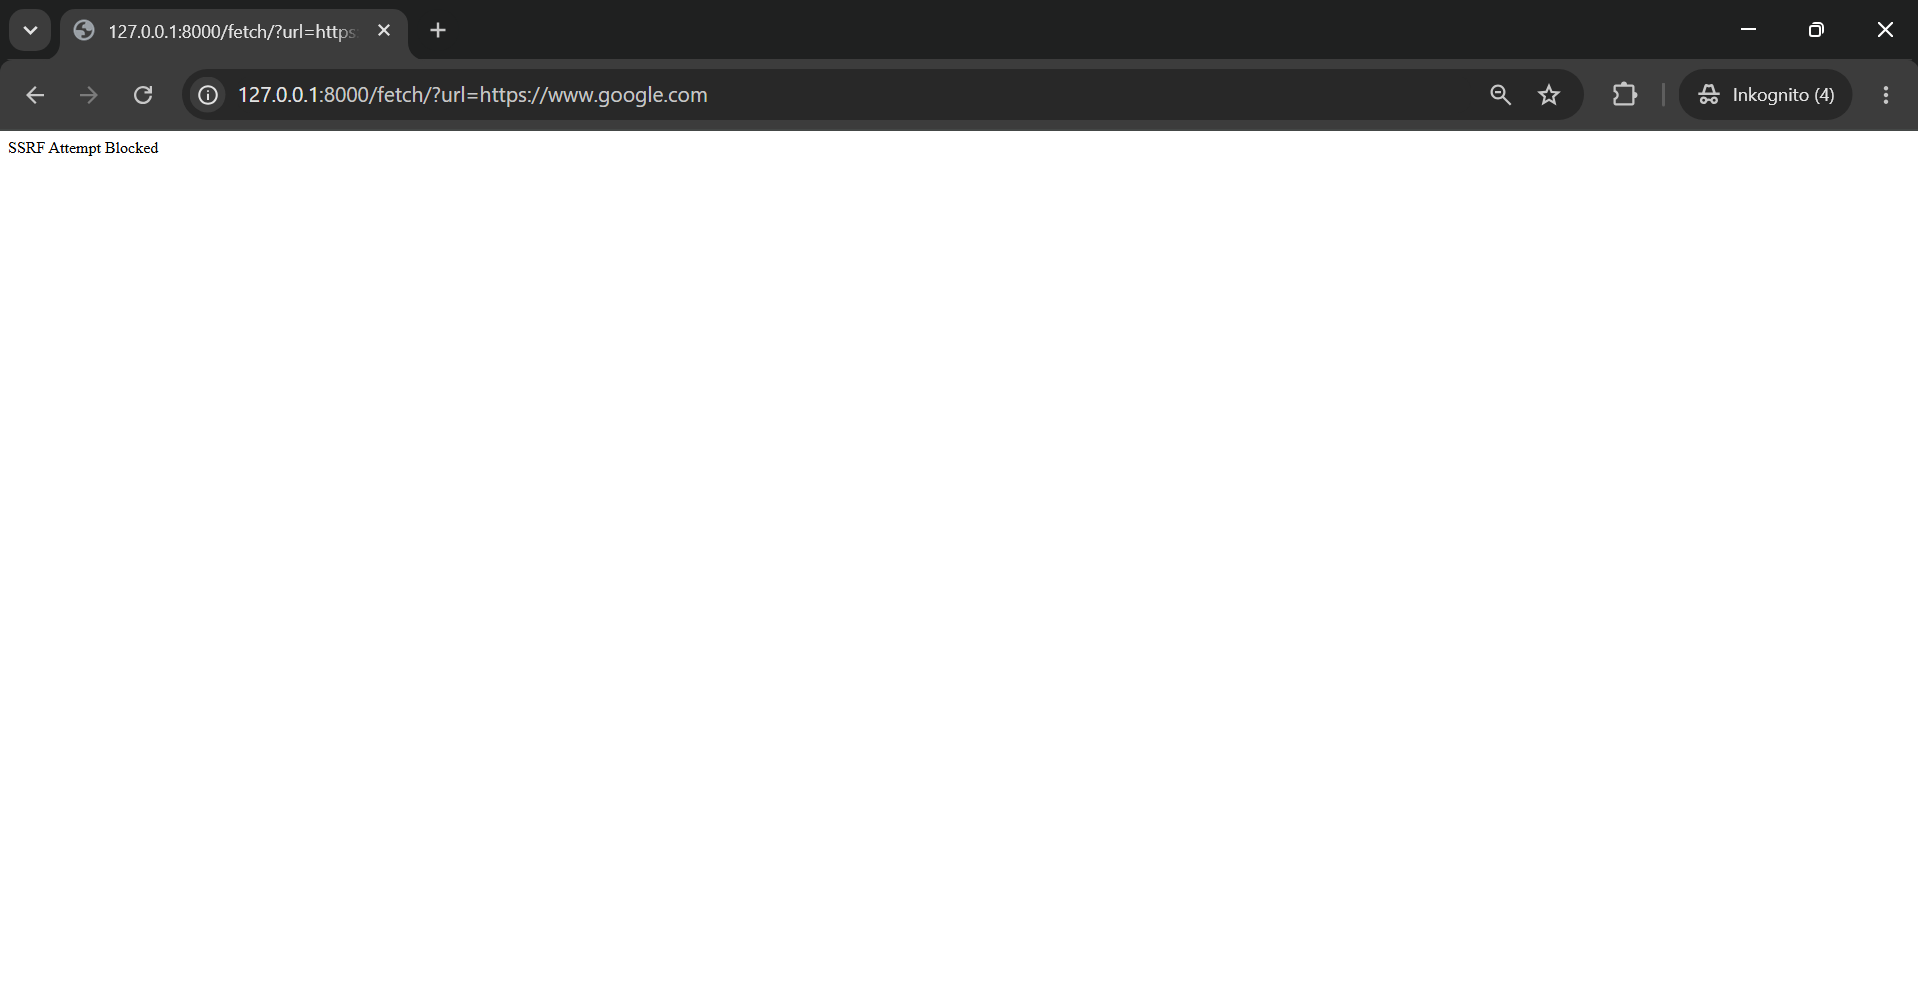
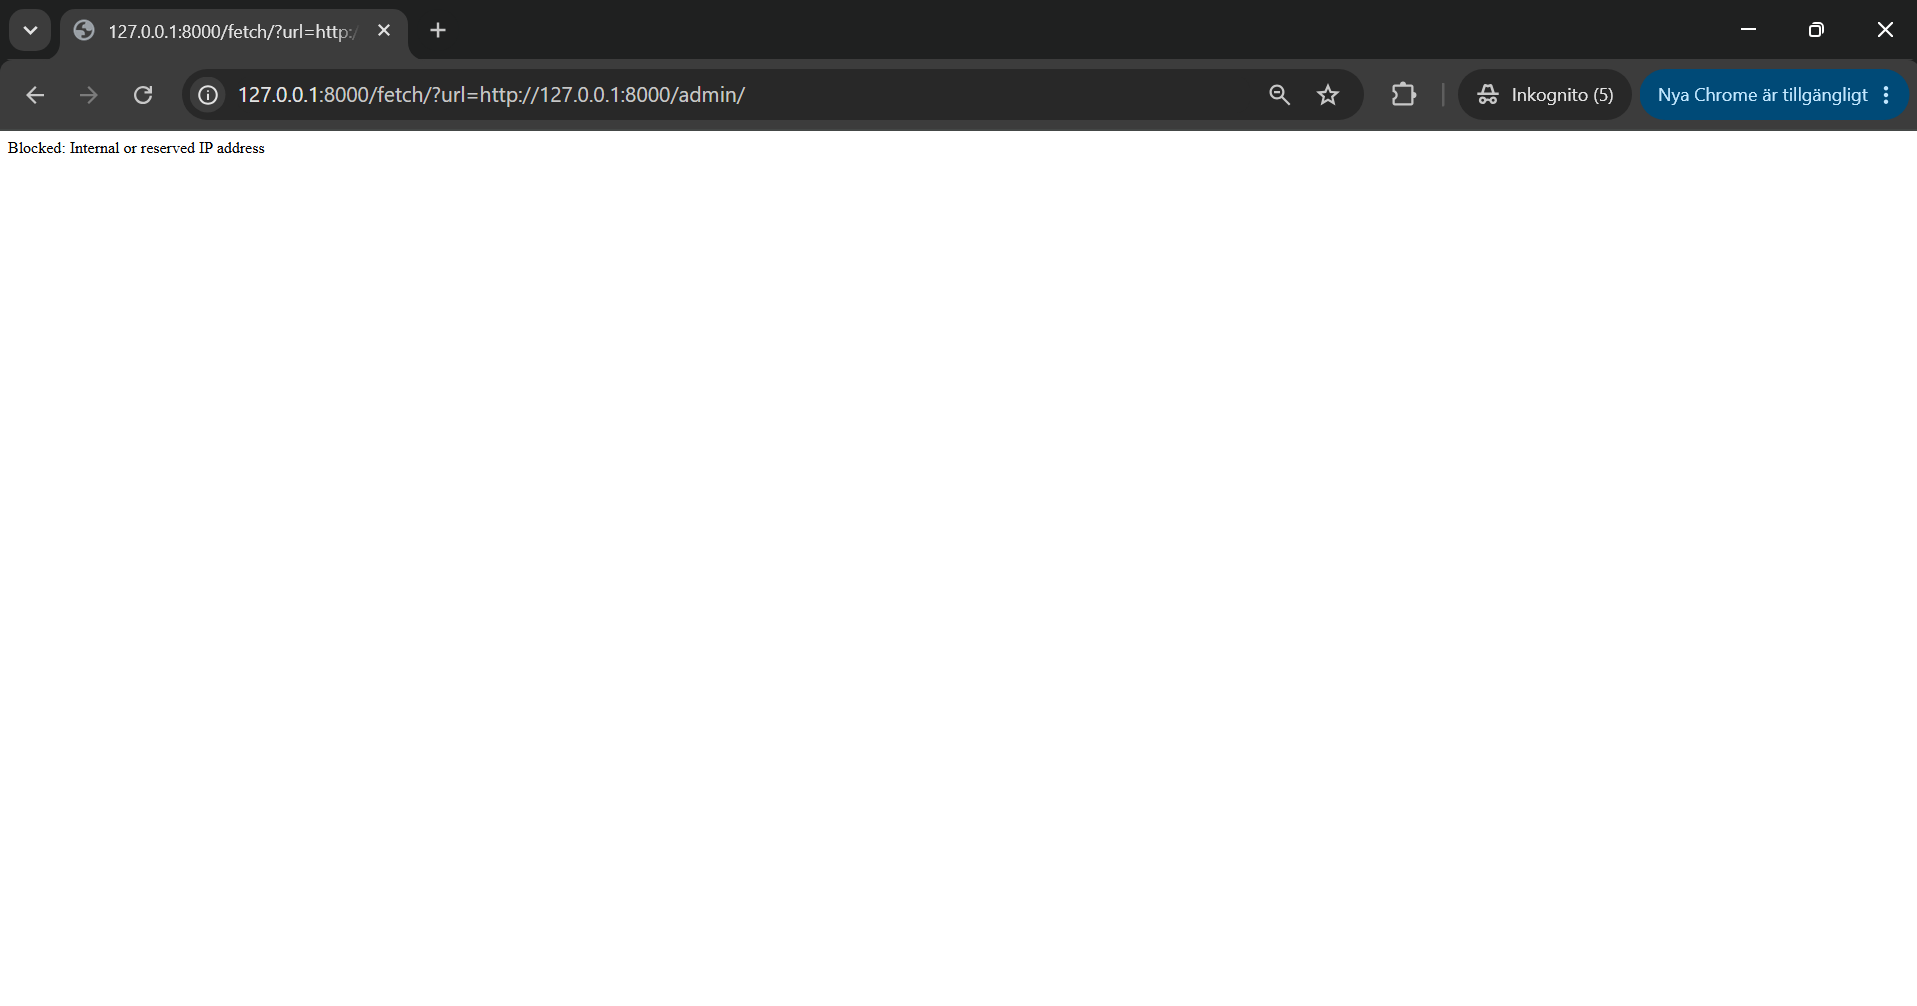
Update Flaw 5 fix and add new screenshots

Changed region(s): [[0.7694, 0.0618, 1.0, 0.1236], [0.2462, 0.0618, 0.3693, 0.1236], [0.0, 0.1236, 0.1539, 0.1545]]

diff --git a/core/views.py b/core/views.py
@@ -2,6 +2,9 @@ from django.http import HttpResponse, HttpResponseForbidden
 from django.template import Template, Context
 from .models import PrivateNote
 import urllib.request
+from urllib.parse import urlparse
+import socket
+import ipaddress
 
 def view_note(request, note_id):
     # FLAW 1: A01 Broken Access Control (IDOR)
@@ -40,13 +43,20 @@ def fetch_external(request):
     # FLAW 5: A10:2021 Server Side Request Forgery (SSRF)
     # The backend fetches an external resource using unvalidated user input, 
     # allowing attackers to make requests to internal network configurations or metadata endpoints.
-    response = urllib.request.urlopen(url)
-    return HttpResponse(response.read())
-
-    # THE FIX: (Uncomment the block below and comment out the two active lines above)
-    # Validating the URL against a strict allowlist prevents unauthorized internal requests.
-    # allowed_urls = ['http://example.com']
-    # if url not in allowed_urls:
-    #     return HttpResponseForbidden("SSRF Attempt Blocked")
     # response = urllib.request.urlopen(url)
     # return HttpResponse(response.read())
+
+    # THE FIX: (Uncomment the block below and comment out the two active lines above)
+    parsed = urlparse(url)
+    if parsed.scheme not in ['http', 'https']:
+        return HttpResponseForbidden("Blocked: Invalid protocol")
+    try:
+        ip = socket.gethostbyname(parsed.hostname)
+        parsed_ip = ipaddress.ip_address(ip)
+        if parsed_ip.is_private or parsed_ip.is_loopback or parsed_ip.is_link_local:
+            return HttpResponseForbidden("Blocked: Internal or reserved IP address")
+    except Exception:
+        return HttpResponseForbidden("Blocked: Invalid hostname")
+    
+    response = urllib.request.urlopen(url, timeout=5)
+    return HttpResponse(response.read())
